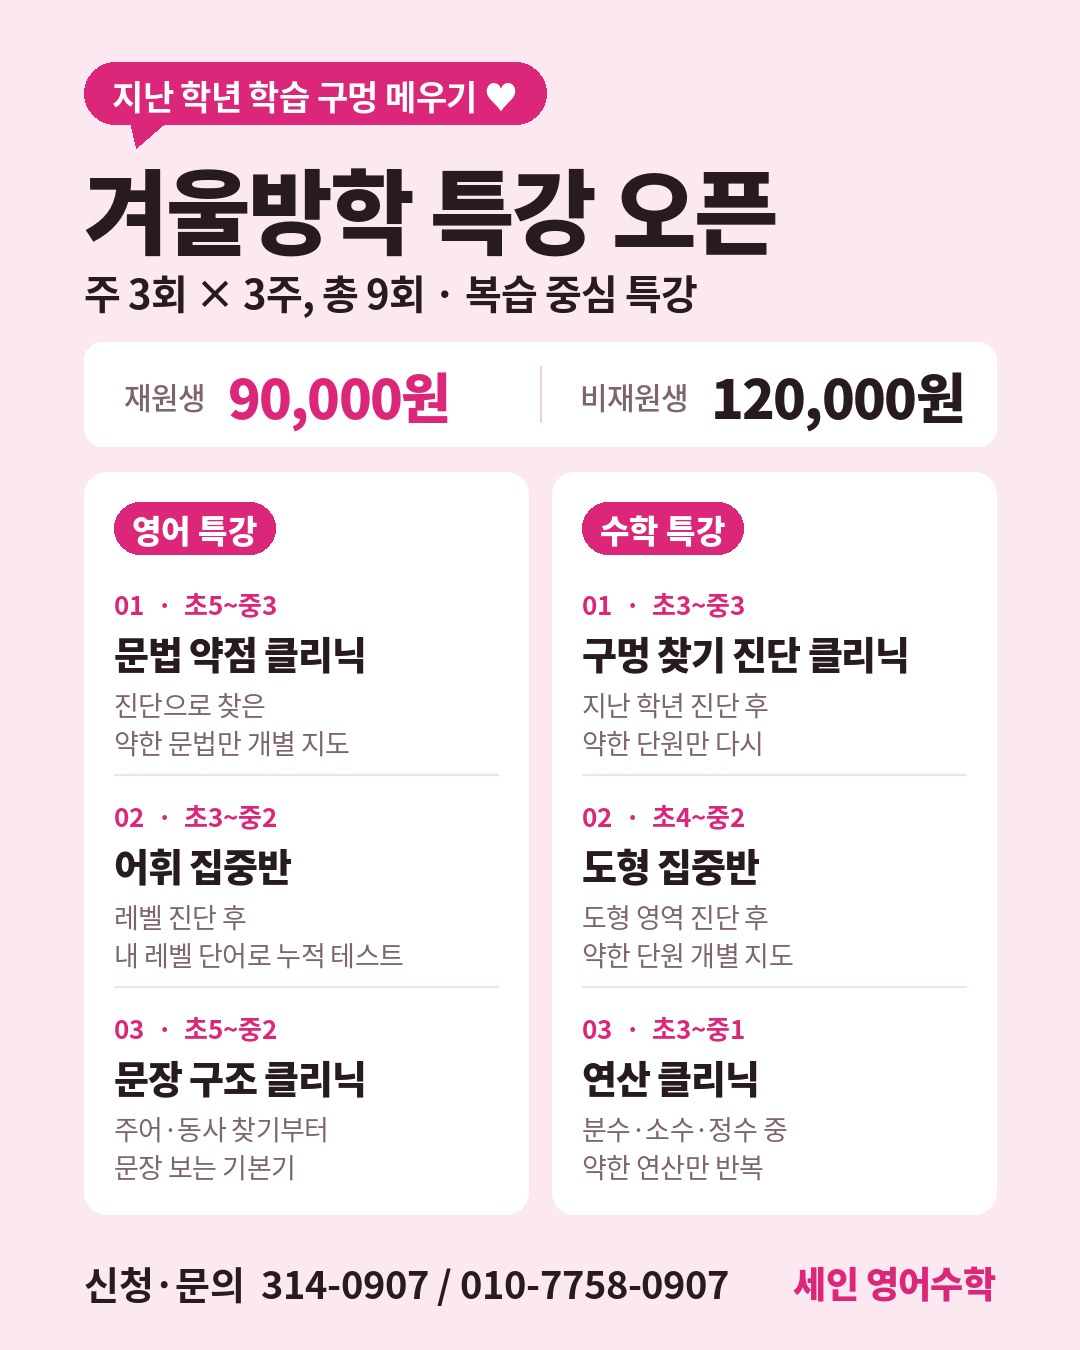
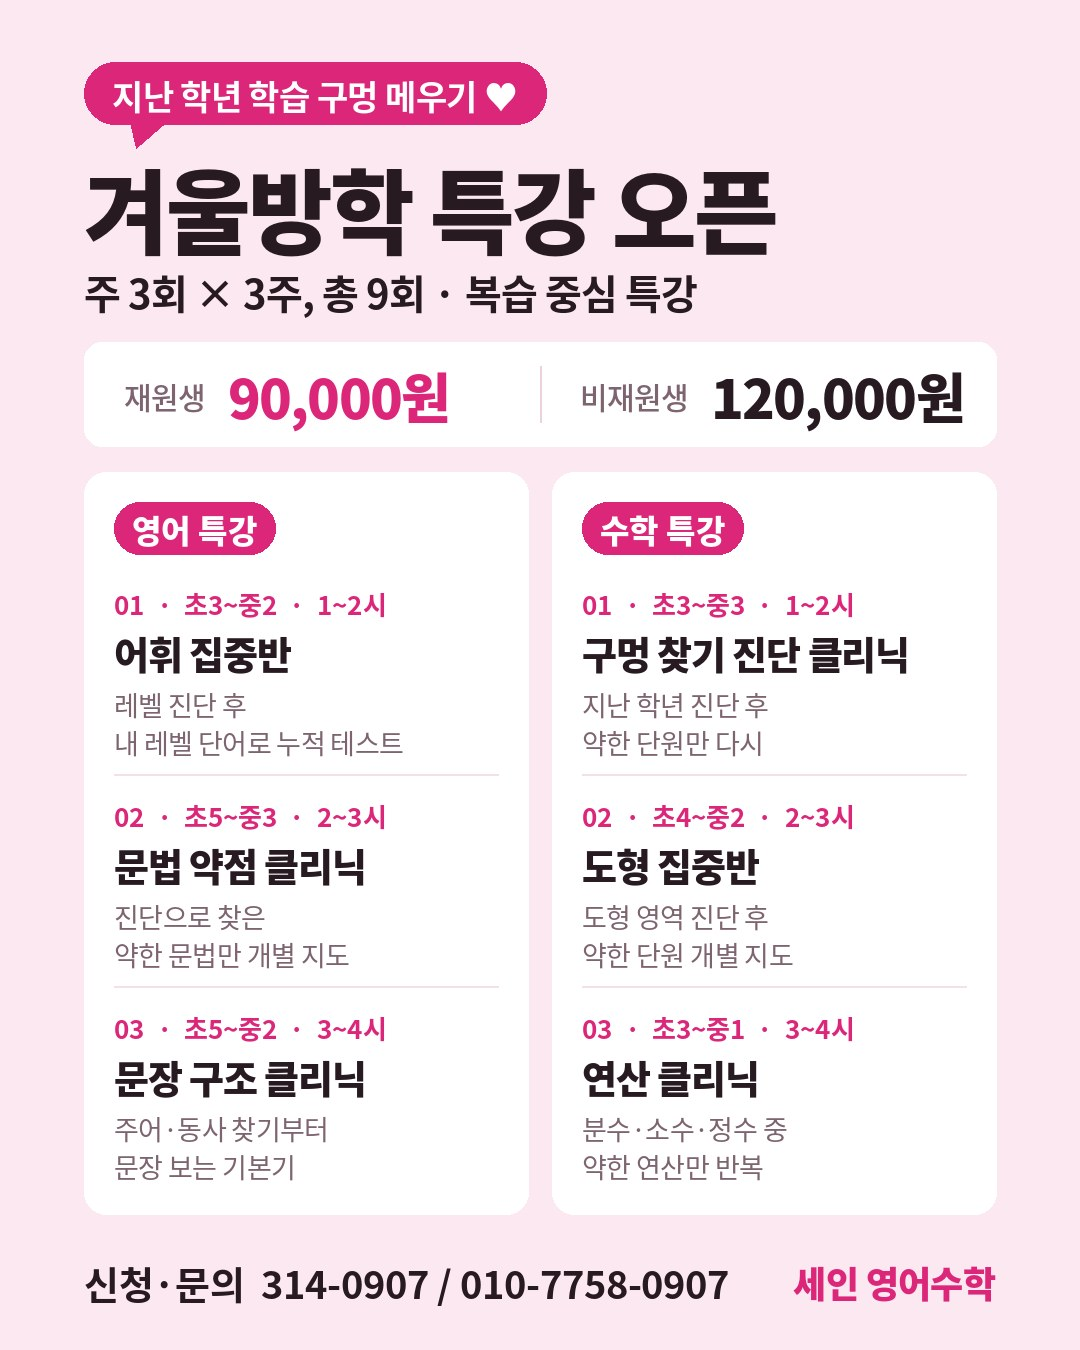
겨울방학 특강 시간 추가 (공지 문구·포스터)
Claude-Session: https://claude.ai/code/session_013d345AqcxLSKTXQNJwL8f7

diff --git a/index.html b/index.html
@@ -424,9 +424,9 @@ footer{text-align:center;font-size:15px;color:var(--gray);padding:28px 0 12px}
 <article class="notice">
   <div class="notice-date">2026.11.25</div>
   <h2 class="notice-title">겨울방학 특강 신청 안내</h2>
-  <p class="notice-text">이번 겨울방학, 본 수업에서는 다음 학기 예습을, 특강에서는 지난 학기에 놓친 부분을 채웁니다. 특강은 주 3회 × 3주(총 9회) 진행되며, 필사 챌린지도 함께 신청받습니다. 수업 시간 등 세부 일정은 추후 안내드립니다.</p>
+  <p class="notice-text">이번 겨울방학, 본 수업에서는 다음 학기 예습을, 특강에서는 지난 학기에 놓친 부분을 채웁니다. 특강은 주 3회 × 3주(총 9회) 진행되며, 필사 챌린지도 함께 신청받습니다. 수업 시간은 영어·수학 특강 오후 1시~4시(반별 1시간), 필사 챌린지 월·수·금 12시~1시입니다.</p>
   <a class="notice-btn" href="https://docs.google.com/forms/d/e/1FAIpQLSdSOgoY831LLl0LnIZvWYlLaS-mjjkJwdq_yXe0gQtLEPAPAA/viewform" target="_blank" rel="noopener">특강 신청하기 →</a>
-  <div class="notice-imgs"><img loading="lazy" src="img/notice-winter-1.jpg" alt="겨울방학 특강 안내 포스터" onclick="zoom(this.src)"><div class="sep">●</div><img loading="lazy" src="img/notice-winter-2.jpg" alt="겨울방학 필사 챌린지 안내 포스터" onclick="zoom(this.src)"></div>
+  <div class="notice-imgs"><img loading="lazy" src="img/notice-winter-1.jpg?v=2" alt="겨울방학 특강 안내 포스터" onclick="zoom(this.src)"><div class="sep">●</div><img loading="lazy" src="img/notice-winter-2.jpg?v=2" alt="겨울방학 필사 챌린지 안내 포스터" onclick="zoom(this.src)"></div>
 </article>
 <article class="notice">
   <div class="notice-date">2026.11.22</div>
